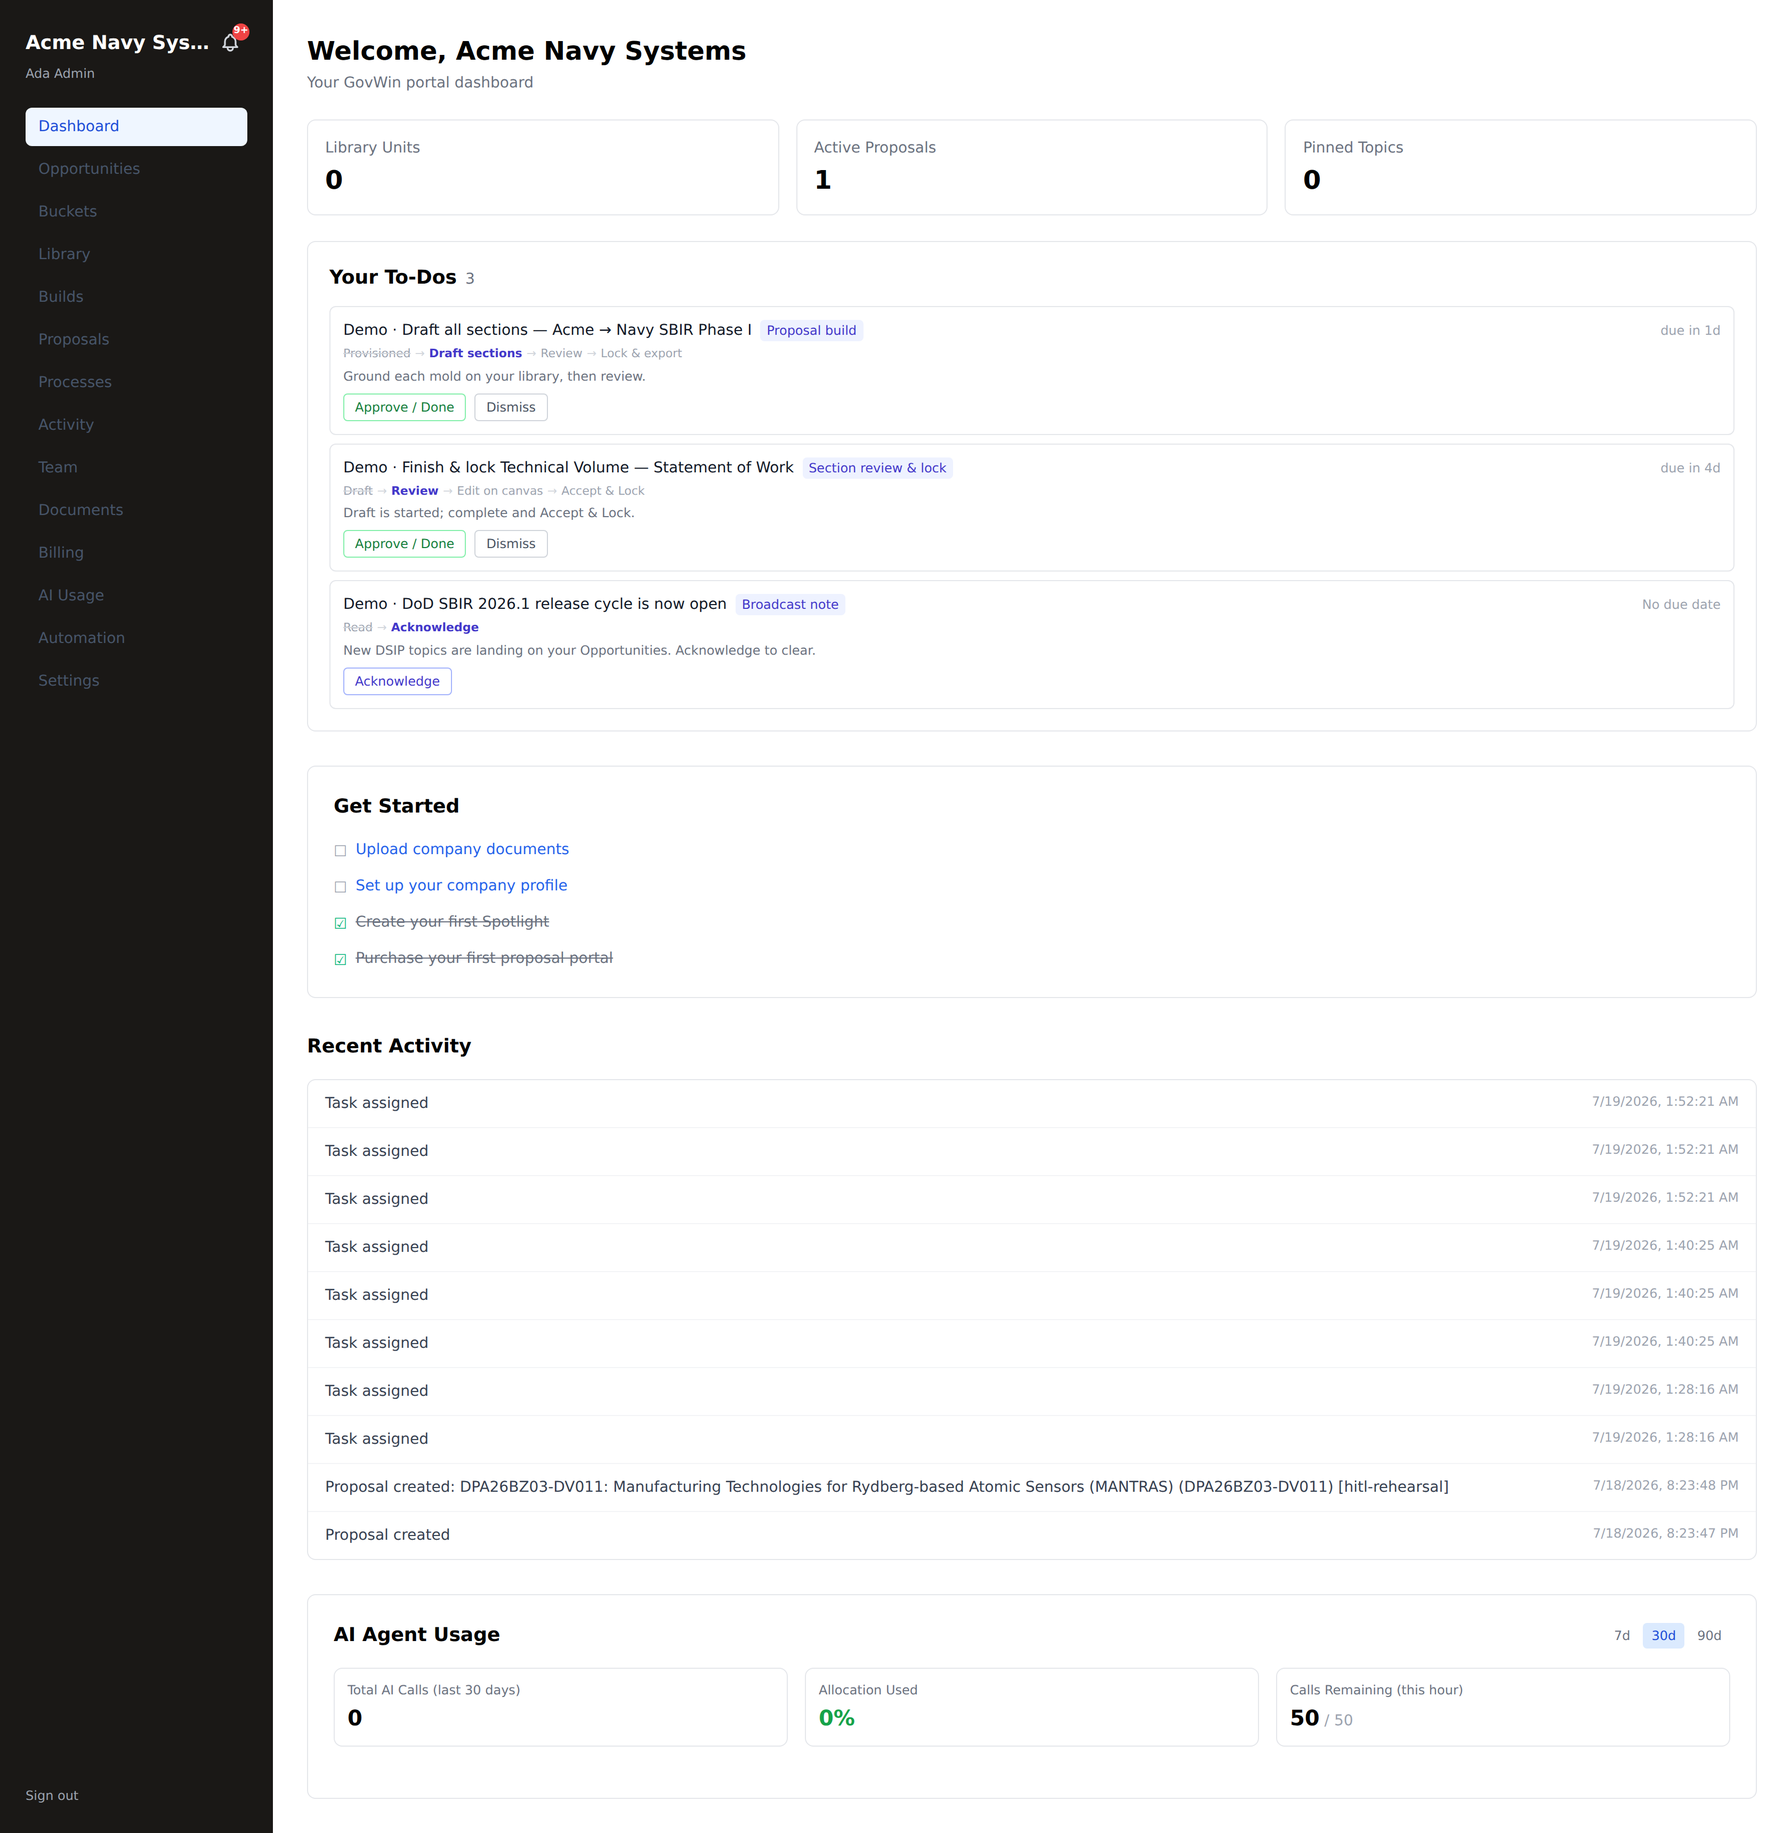
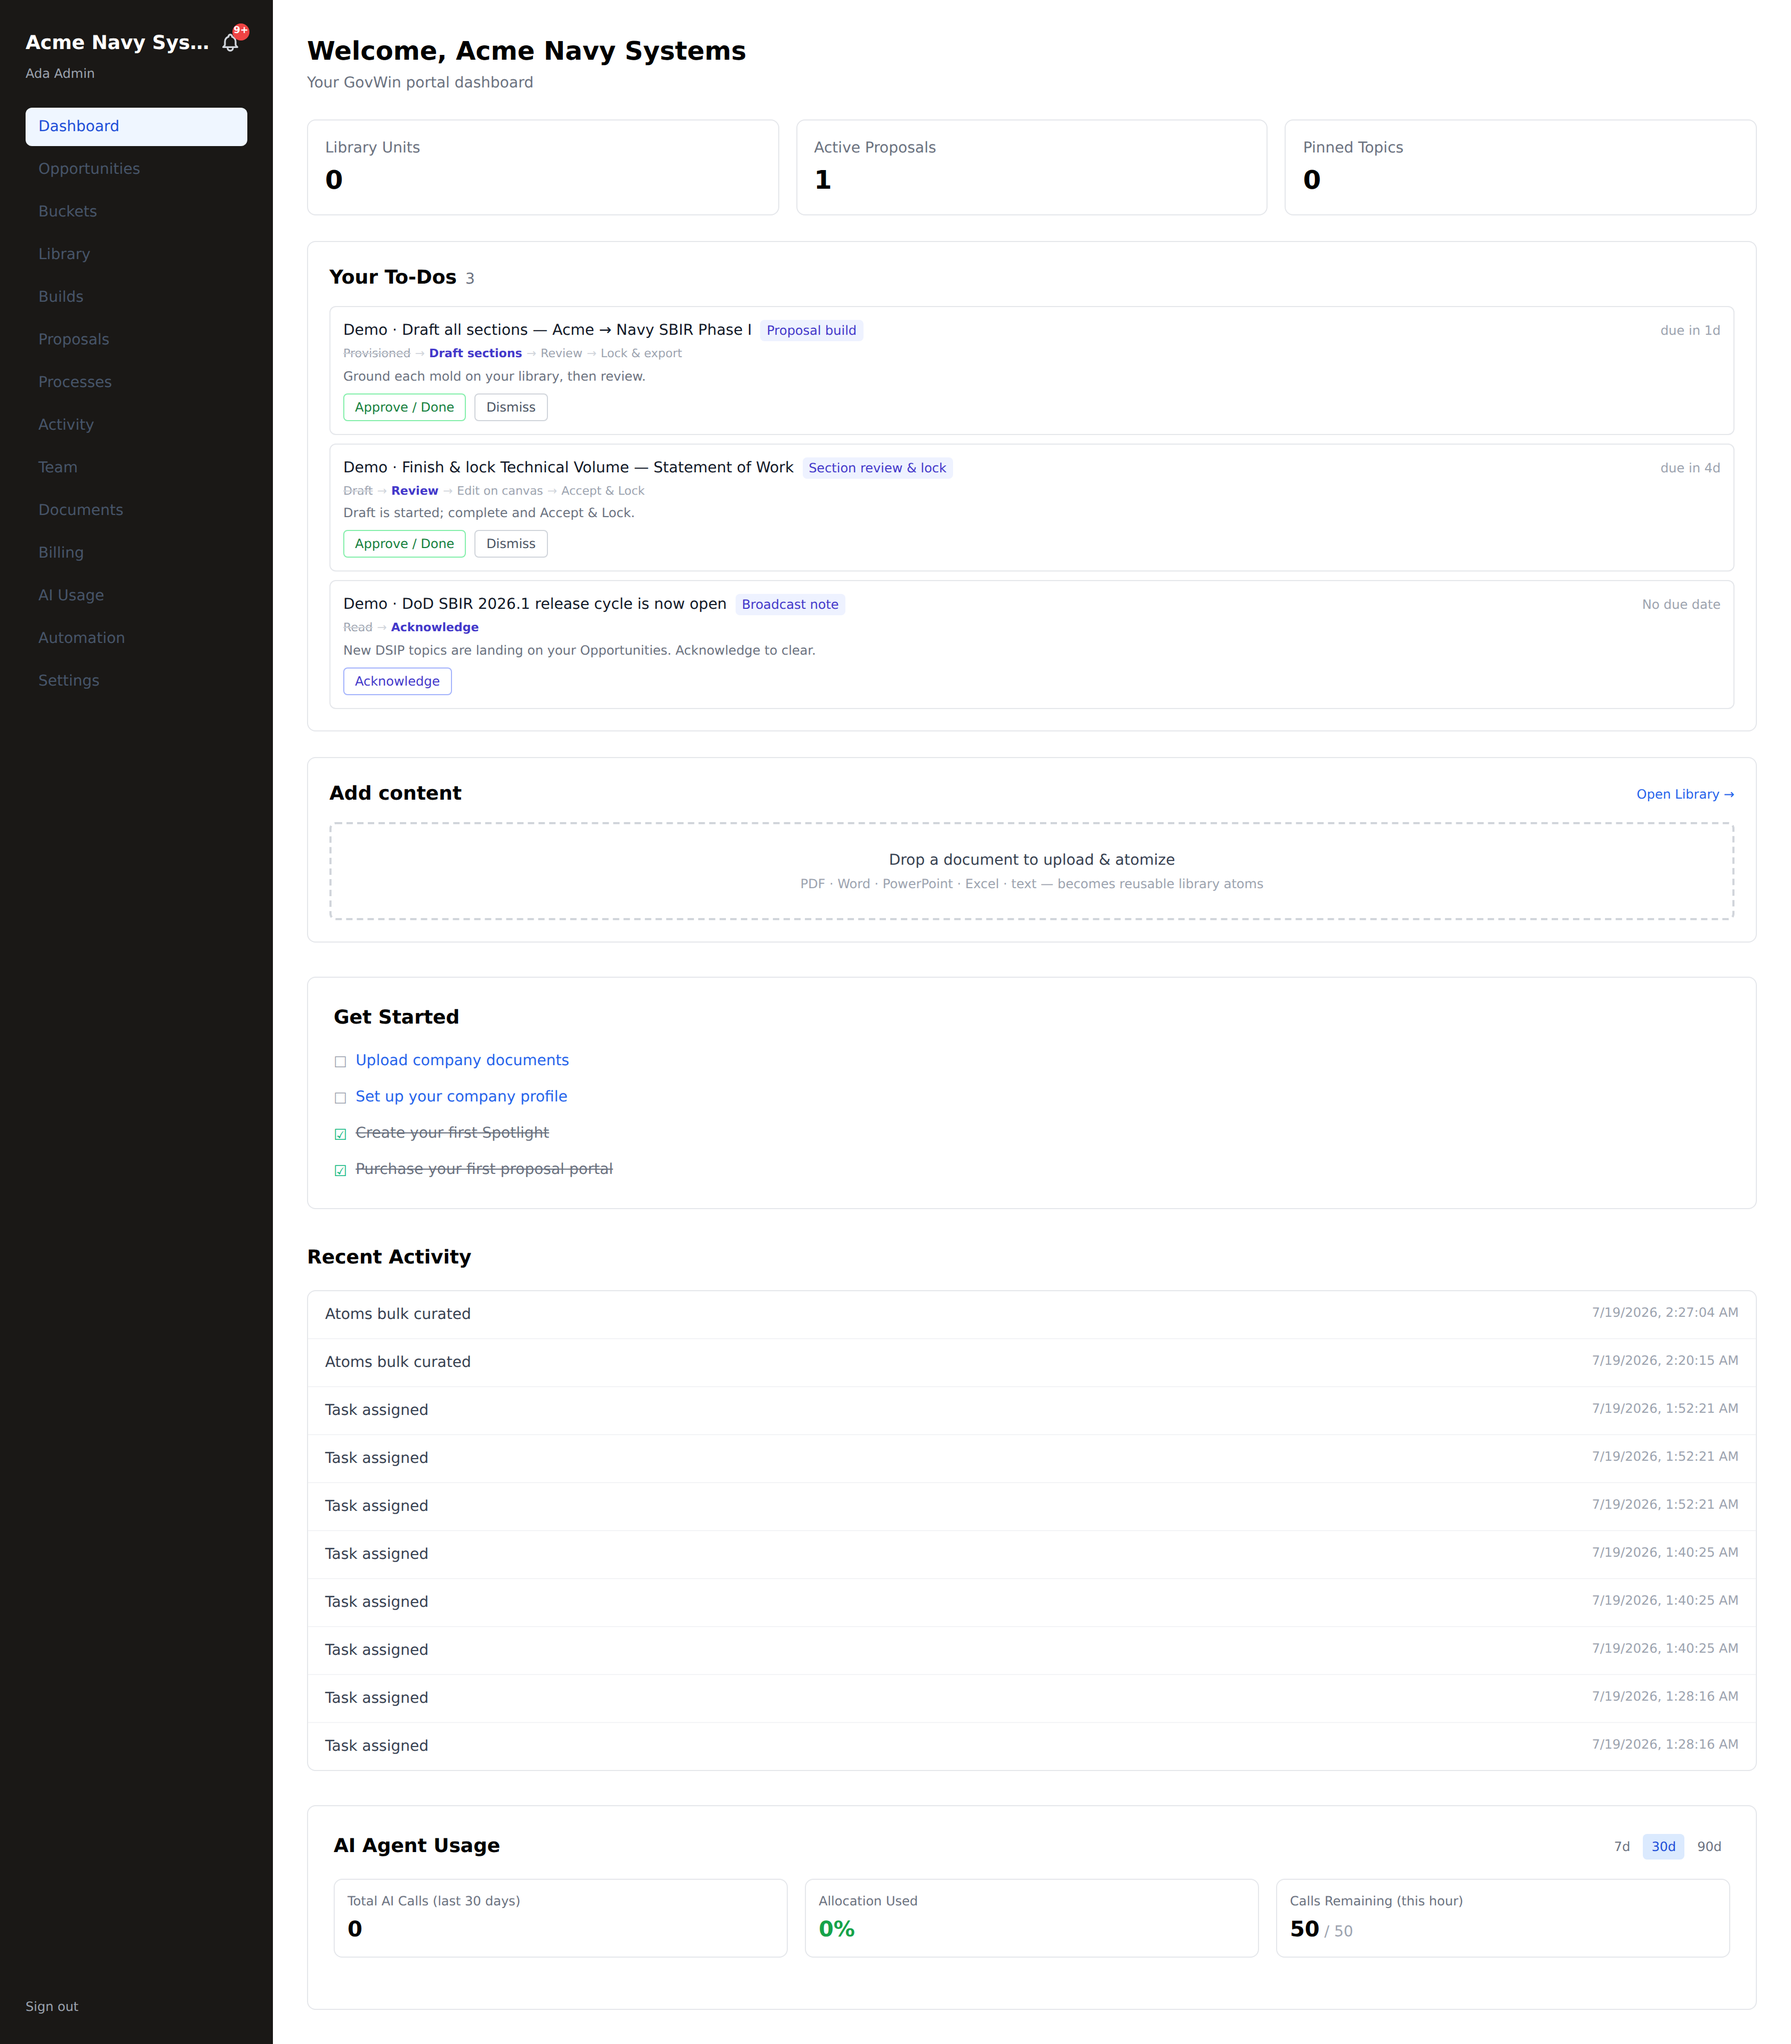
#110: universal upload + atomizer on every landing (incl. collaborators offering up)
Everyone gets an "Add content" card on their landing — drop a document, it uploads
and AUTO-atomizes into THIS company's library (reusable, context-ranked).

- New UploadAtomizeCard (drop / click, PDF·Word·PPT·Excel·text → atoms/atomize-package),
  compact + self-contained, shows the atom count on success.
- Placed on the customer dashboard AND the collaborator (contributor) view — so a
  collaborator can atomize and OFFER content UP to the company (their atoms land
  'collaborator'-sourced for the company to review). The collaborator keeps their raw
  Dropbox too, and still sees ONLY their assigned section.
- Lowered atoms/atomize-package to partner_user so collaborators can offer content;
  still verifyTenantAccess-gated, so they can only offer into a company they belong to
  (write-only; no new read exposure).

Drive-tested: card renders on the customer dashboard and inside the scoped
collaborator view (Bea sees Assigned Section + Dropbox + Add content, nothing else).
tsc clean; vitest 701/701.

Claude-Session: https://claude.ai/code/session_014WpKLE6LTPMraFbTacbbBV

diff --git a/frontend/components/portal/upload-atomize-card.tsx b/frontend/components/portal/upload-atomize-card.tsx
@@ -1,0 +1,91 @@
+'use client';
+
+/**
+ * UploadAtomizeCard — the "add content" surface that lives on every landing.
+ *
+ * Anyone (customer, team member, collaborator, or one of us acting in a company)
+ * can drop a document here; it is uploaded and AUTO-atomized into THIS company's
+ * library (`atoms/atomize-package`), immediately reusable and context-ranked. For a
+ * collaborator this is how they OFFER content up — the atoms land in the company's
+ * library for the company to use. Tenant-scoped by the route + RLS.
+ */
+import { useCallback, useRef, useState } from 'react';
+import Link from 'next/link';
+
+const ALLOWED = ['pdf', 'docx', 'doc', 'pptx', 'ppt', 'txt', 'md', 'xlsx'];
+const ACCEPT = ALLOWED.map((e) => `.${e}`).join(',');
+
+type Result = { filesProcessed?: number; totalAtoms?: number } | null;
+
+export function UploadAtomizeCard({ tenantSlug }: { tenantSlug: string }) {
+  const [busy, setBusy] = useState(false);
+  const [drag, setDrag] = useState(false);
+  const [error, setError] = useState<string | null>(null);
+  const [result, setResult] = useState<Result>(null);
+  const inputRef = useRef<HTMLInputElement>(null);
+
+  const submit = useCallback(async (files: FileList | File[]) => {
+    const list = Array.from(files).filter((f) => ALLOWED.includes(f.name.split('.').pop()?.toLowerCase() ?? ''));
+    if (list.length === 0) { setError('Supported: PDF, Word, PowerPoint, Excel, text.'); return; }
+    setBusy(true); setError(null); setResult(null);
+    try {
+      const fd = new FormData();
+      for (const f of list) fd.append('files', f);
+      fd.append('packageName', list.length === 1 ? list[0].name : `${list.length} files`);
+      const res = await fetch(`/api/portal/${tenantSlug}/atoms/atomize-package`, { method: 'POST', body: fd });
+      const json = await res.json().catch(() => ({}));
+      if (!res.ok) { setError(json?.error ?? 'Upload failed.'); return; }
+      setResult((json.data ?? {}) as Result);
+    } catch {
+      setError('Network error — please try again.');
+    } finally {
+      setBusy(false);
+      if (inputRef.current) inputRef.current.value = '';
+    }
+  }, [tenantSlug]);
+
+  return (
+    <div className="bg-white border border-gray-200 rounded-lg p-5">
+      <div className="flex items-center justify-between mb-3">
+        <h2 className="text-lg font-semibold">Add content</h2>
+        <Link href={`/portal/${tenantSlug}/atoms`} className="text-xs text-blue-600 hover:underline">Open Library →</Link>
+      </div>
+
+      <div
+        onDragOver={(e) => { e.preventDefault(); setDrag(true); }}
+        onDragLeave={() => setDrag(false)}
+        onDrop={(e) => { e.preventDefault(); setDrag(false); if (e.dataTransfer.files.length) submit(e.dataTransfer.files); }}
+        onClick={() => inputRef.current?.click()}
+        className={`cursor-pointer rounded-md border-2 border-dashed px-4 py-6 text-center transition-colors ${
+          drag ? 'border-blue-400 bg-blue-50/50' : 'border-gray-300 hover:border-blue-300'
+        }`}
+      >
+        <input
+          ref={inputRef}
+          type="file"
+          multiple
+          accept={ACCEPT}
+          className="hidden"
+          onChange={(e) => { if (e.target.files?.length) submit(e.target.files); }}
+        />
+        {busy ? (
+          <p className="text-sm text-gray-500">Uploading &amp; atomizing…</p>
+        ) : (
+          <>
+            <p className="text-sm font-medium text-gray-700">Drop a document to upload &amp; atomize</p>
+            <p className="mt-1 text-xs text-gray-400">PDF · Word · PowerPoint · Excel · text — becomes reusable library atoms</p>
+          </>
+        )}
+      </div>
+
+      {error && <p className="mt-2 text-xs text-red-600">{error}</p>}
+      {result && (
+        <p className="mt-2 text-xs text-green-700">
+          Atomized{typeof result.filesProcessed === 'number' ? ` ${result.filesProcessed} file${result.filesProcessed === 1 ? '' : 's'}` : ''}
+          {typeof result.totalAtoms === 'number' ? ` into ${result.totalAtoms} atom${result.totalAtoms === 1 ? '' : 's'}` : ''}
+          . <Link href={`/portal/${tenantSlug}/atoms`} className="underline">Review in Library</Link>.
+        </p>
+      )}
+    </div>
+  );
+}

diff --git a/frontend/app/api/portal/[tenantSlug]/atoms/atomize-package/route.ts b/frontend/app/api/portal/[tenantSlug]/atoms/atomize-package/route.ts
@@ -23,7 +23,11 @@ export async function POST(request: Request, { params }: { params: Promise<{ ten
     const u = session.user as { id?: string; email?: string; role?: unknown };
     const role: Role | null = isRole(u.role) ? u.role : null;
     if (!role || !u.id) return NextResponse.json({ error: 'Invalid session', code: 'UNAUTHENTICATED' }, { status: 401 });
-    if (!hasRoleAtLeast(role, 'tenant_user')) return NextResponse.json({ error: 'Insufficient permissions', code: 'FORBIDDEN' }, { status: 403 });
+    // Collaborators (partner_user) may atomize too — this is how they OFFER content
+    // UP to the company (atoms are 'collaborator'-sourced + draft for the company to
+    // review). verifyTenantAccess below still requires a real membership at THIS
+    // company, so a collaborator can only offer into a company they belong to.
+    if (!hasRoleAtLeast(role, 'partner_user')) return NextResponse.json({ error: 'Insufficient permissions', code: 'FORBIDDEN' }, { status: 403 });
     const tenant = await getTenantBySlug(tenantSlug);
     if (!tenant) return NextResponse.json({ error: 'Tenant not found', code: 'NOT_FOUND' }, { status: 404 });
     const tenantId = tenant.id as string;

diff --git a/frontend/app/portal/[tenantSlug]/dashboard/page.tsx b/frontend/app/portal/[tenantSlug]/dashboard/page.tsx
@@ -5,6 +5,7 @@ import { sql, getTenantBySlug, verifyTenantAccess } from '@/lib/db';
 import { isRole, hasRoleAtLeast, type Role } from '@/lib/rbac';
 import { AgentUsagePanel } from '@/components/portal/agent-usage-panel';
 import { TaskQueue } from '@/components/tasks/task-queue';
+import { UploadAtomizeCard } from '@/components/portal/upload-atomize-card';
 import { describeEvent } from '@/lib/event-labels';
 
 export const dynamic = 'force-dynamic';
@@ -187,6 +188,11 @@ export default async function DashboardPage({
       {/* To-Do queue + in-app deadline nudges (reads the unified tasks ledger) */}
       <div className="mt-6">
         <TaskQueue apiBase={`/api/portal/${tenantSlug}/tasks`} tenantSlug={tenantSlug} />
+      </div>
+
+      {/* Add content — upload + atomize on the landing, for anyone in this company. */}
+      <div className="mt-6">
+        <UploadAtomizeCard tenantSlug={tenantSlug} />
       </div>
 
       {/* Get Started checklist */}

diff --git a/frontend/components/portal/proposal-contributor-view.tsx b/frontend/components/portal/proposal-contributor-view.tsx
@@ -3,6 +3,7 @@
 import { useCallback } from 'react';
 import { useRouter } from 'next/navigation';
 import { ProposalDropbox } from './proposal-dropbox';
+import { UploadAtomizeCard } from './upload-atomize-card';
 
 interface SectionItem {
   id: string;
@@ -143,6 +144,10 @@ export function ProposalContributorView({
           canUpload={canUpload}
         />
       </div>
+
+      {/* Offer content up — a collaborator can atomize their own material into the
+          company's library for the company to review and use. */}
+      <UploadAtomizeCard tenantSlug={tenantSlug} />
 
       {/* Comment-only sections */}
       {commentSections.length > 0 && (

diff --git a/docs/user-guides/README.md b/docs/user-guides/README.md
@@ -77,6 +77,7 @@ implies it exists).
 
 ### C. Build the content library
 
+- [x] ✅ **Add content on the landing** — an upload+atomize card on every landing (customer dashboard AND the collaborator view); collaborators atomize to **offer content up** to the company — all customer roles + collaborators
 - [x] ✅ **Upload a prior-proposal package** (docx/pdf/pptx/xlsx/txt) — tenant_admin → [library-atoms](./library-atoms.md)
 - [x] ✅ **Atomize the package** into tagged, reusable atoms (upload→atomize→select) — tenant_admin
 - [x] ✅ **Annotation atomizer** — box / select / group / tag on ingest — tenant_admin
